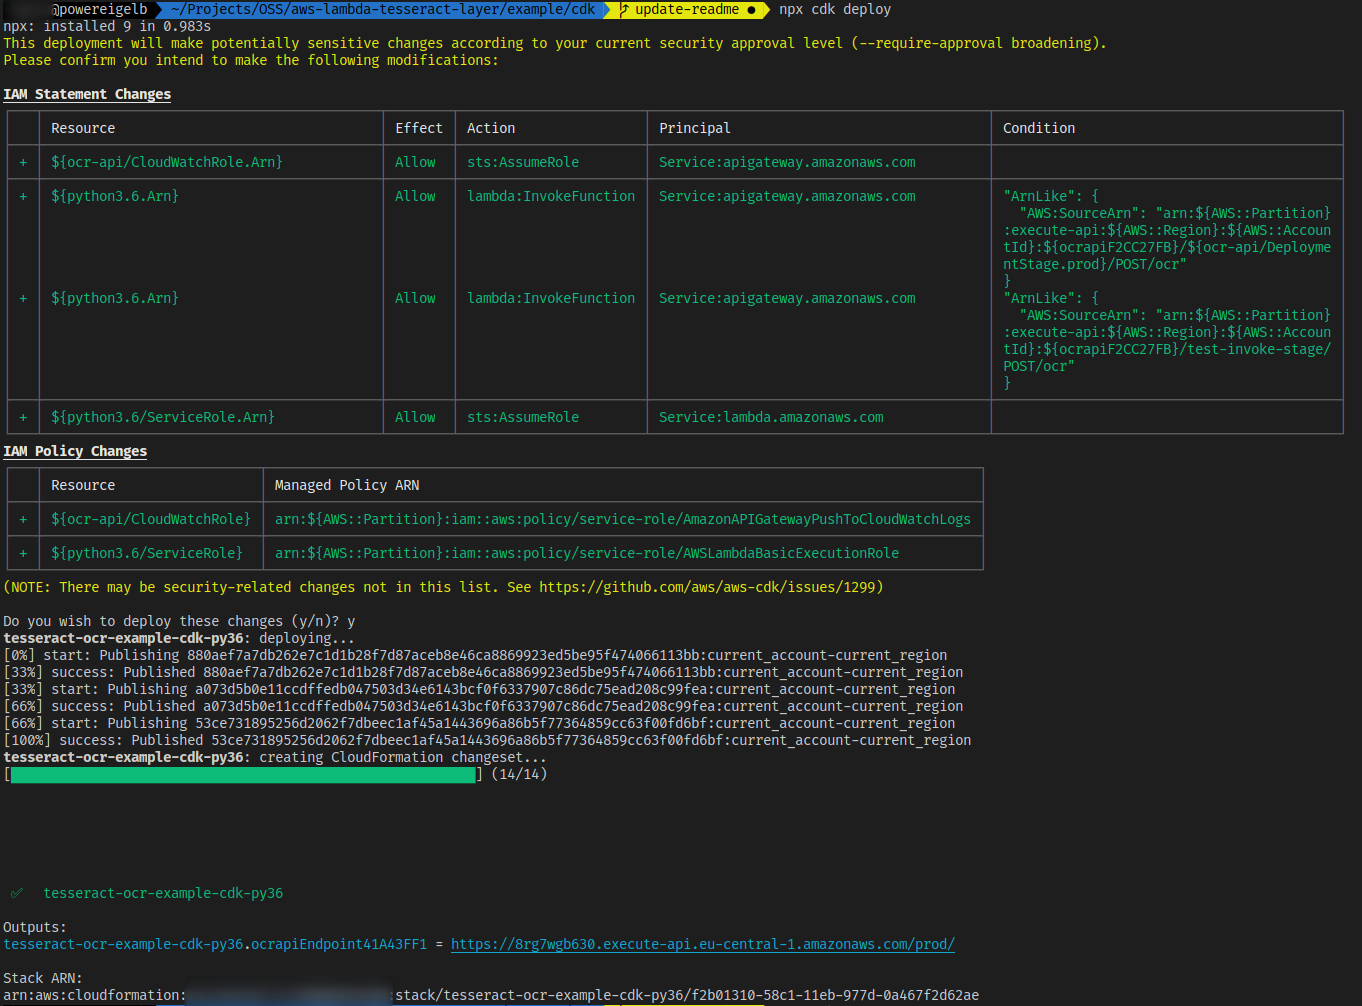
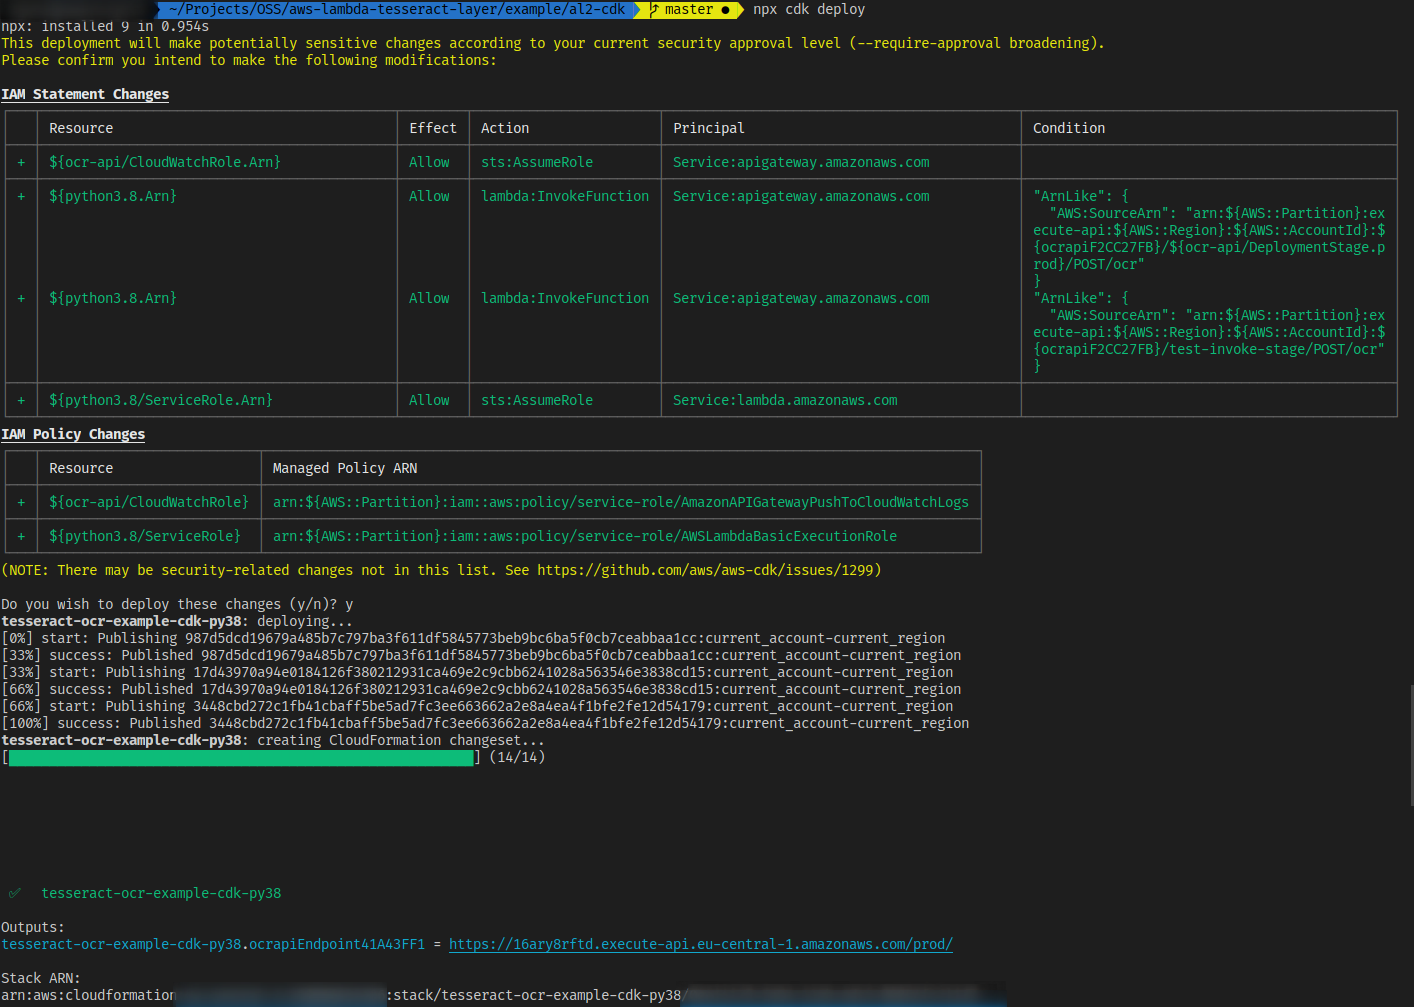
add deprecation warnings for code and examples based on al1

diff --git a/example/al1-deprecated/cdk/index.ts b/example/al1-deprecated/cdk/index.ts
@@ -6,29 +6,29 @@ import { App, BundlingDockerImage, Duration, Stack } from '@aws-cdk/core';
 
 
 const app = new App();
-const stack = new Stack(app, 'tesseract-ocr-example-cdk-py38');
+const stack = new Stack(app, 'tesseract-ocr-example-cdk-py36');
 
 /**
- * Artifacts for AL 2
+ * Artifacts for AL 1
  */
-const al2Layer = new lambda.LayerVersion(stack, 'al2-layer', {
-    code: Code.fromAsset(path.resolve(__dirname, '../../ready-to-use/amazonlinux-2')),
-    description: 'AL2 Tesseract Layer',
+const al1Layer = new lambda.LayerVersion(stack, 'al1-layer', {
+    code: Code.fromAsset(path.resolve(__dirname, '../../ready-to-use/amazonlinux-1')),
+    description: 'AL1 Tesseract Layer',
 });
 
-const ocrFn = new lambda.Function(stack, 'python3.8', {
+const ocrFn = new lambda.Function(stack, 'python3.6', {
     code: lambda.Code.fromAsset(path.resolve(__dirname, 'lambda-handlers'),
     {
         bundling: {
-            image: BundlingDockerImage.fromRegistry('lambci/lambda:build-python3.8'),
+            image: BundlingDockerImage.fromRegistry('lambci/lambda:build-python3.6'),
             command: ['/bin/bash', '-c', [
                 'pip install -r requirements.txt -t /asset-output/',
                 'cp handler.py /asset-output',
             ].join(' && ')],
         }
     }),
-    runtime: Runtime.PYTHON_3_8,
-    layers: [al2Layer],
+    runtime: Runtime.PYTHON_3_6,
+    layers: [al1Layer],
     memorySize: 1024,
     timeout: Duration.seconds(10),
     handler: 'handler.main',

diff --git a/example/cdk/index.ts b/example/cdk/index.ts
@@ -6,29 +6,29 @@ import { App, BundlingDockerImage, Duration, Stack } from '@aws-cdk/core';
 
 
 const app = new App();
-const stack = new Stack(app, 'tesseract-ocr-example-cdk-py36');
+const stack = new Stack(app, 'tesseract-ocr-example-cdk-py38');
 
 /**
- * Artifacts for AL 1
+ * Artifacts for AL 2
  */
-const al1Layer = new lambda.LayerVersion(stack, 'al1-layer', {
-    code: Code.fromAsset(path.resolve(__dirname, '../../ready-to-use/amazonlinux-1')),
-    description: 'AL1 Tesseract Layer',
+const al2Layer = new lambda.LayerVersion(stack, 'al2-layer', {
+    code: Code.fromAsset(path.resolve(__dirname, '../../ready-to-use/amazonlinux-2')),
+    description: 'AL2 Tesseract Layer',
 });
 
-const ocrFn = new lambda.Function(stack, 'python3.6', {
+const ocrFn = new lambda.Function(stack, 'python3.8', {
     code: lambda.Code.fromAsset(path.resolve(__dirname, 'lambda-handlers'),
     {
         bundling: {
-            image: BundlingDockerImage.fromRegistry('lambci/lambda:build-python3.6'),
+            image: BundlingDockerImage.fromRegistry('lambci/lambda:build-python3.8'),
             command: ['/bin/bash', '-c', [
                 'pip install -r requirements.txt -t /asset-output/',
                 'cp handler.py /asset-output',
             ].join(' && ')],
         }
     }),
-    runtime: Runtime.PYTHON_3_6,
-    layers: [al1Layer],
+    runtime: Runtime.PYTHON_3_8,
+    layers: [al2Layer],
     memorySize: 1024,
     timeout: Duration.seconds(10),
     handler: 'handler.main',

diff --git a/README.md b/README.md
@@ -12,6 +12,8 @@ Tesseract OCR Lambda Layer
 
 > AWS Lambda layer containing the [tesseract OCR](https://github.com/tesseract-ocr/tesseract) libraries and command-line binary for Lambda Runtimes running on Amazon Linux 1 and 2.
 
+> :warning: [The Amazon Linux AMI (Version 1) is being deprecated](https://aws.amazon.com/blogs/aws/update-on-amazon-linux-ami-end-of-life/). Users are advised to not use Lambda runtimes (i.e. Python 3.6) based on this version. Refer also to the [AWS Lambda runtime deprecation policy](https://docs.aws.amazon.com/lambda/latest/dg/lambda-runtimes.html#runtime-support-policy).
+
 <!-- TOC -->
 
 - [Tesseract OCR Lambda Layer](#tesseract-ocr-lambda-layer)
@@ -108,7 +110,7 @@ const stack = new Stack(app, 'tesseract-lambda-ci');
 const al2Layer = new lambda.LayerVersion(stack, 'al2-layer', {
     // reference the directory containing the ready-to-use layer
     code: Code.fromAsset(path.resolve(__dirname, './ready-to-use/amazonlinux-2')),
-    description: 'AL1 Tesseract Layer',
+    description: 'AL2 Tesseract Layer',
 });
 new lambda.Function(stack, 'python38', {
     // reference the source code to your function
@@ -142,10 +144,10 @@ unset CONTAINER
 
 ## available `Dockerfile`s
 
-| Dockerfile       | Base-Image     | compatible Runtimes                                                   |
-|:-----------------|:---------------|:----------------------------------------------------------------------|
-| `Dockerfile.al1` | Amazon Linux 1 | Python 2.7/3.6/3.7, Ruby 2.5, Java 8 (OpenJDK), Go 1.x, .NET Core 2.1 |
-| `Dockerfile.al2` | Amazon Linux 2 | Python 3.8, Ruby 2.7, Java 8/11 (Coretto), .NET Core 3.1              |
+| Dockerfile                              | Base-Image     | compatible Runtimes                                                   |
+| :-------------------------------------- | :------------- | :-------------------------------------------------------------------- |
+| `Dockerfile.al1` (:warning: deprecated) | Amazon Linux 1 | Python 2.7/3.6/3.7, Ruby 2.5, Java 8 (OpenJDK), Go 1.x, .NET Core 2.1 |
+| `Dockerfile.al2`                        | Amazon Linux 2 | Python 3.8, Ruby 2.7, Java 8/11 (Coretto), .NET Core 3.1              |
 
 
 ## Building a different tesseract version and/or language
@@ -155,21 +157,21 @@ Per default the build generates the [tesseract 4.1.3](https://github.com/tessera
 The build process can be modified using different build time arguments (defined as `ARG` in `Dockerfile.al[1|2]`), using the `--build-arg` option of `docker build`.
 
 | Build-Argument           | description                                                                                                       | available versions                                                                                                                        |
-|:-------------------------|:------------------------------------------------------------------------------------------------------------------|:------------------------------------------------------------------------------------------------------------------------------------------|
+| :----------------------- | :---------------------------------------------------------------------------------------------------------------- | :---------------------------------------------------------------------------------------------------------------------------------------- |
 | `TESSERACT_VERSION`      | the tesseract OCR engine                                                                                          | https://github.com/tesseract-ocr/tesseract/releases                                                                                       |
 | `LEPTONICA_VERSION`      | fundamental image processing and analysis library                                                                 | https://github.com/danbloomberg/leptonica/releases                                                                                        |
 | `OCR_LANG`               | Language to install (in addition to `eng` and `osd`)                                                              | https://github.com/tesseract-ocr/tessdata (`<lang>.traineddata`)                                                                          |
 | `TESSERACT_DATA_SUFFIX`  | Trained LSTM models for tesseract. Can be empty (default), `_best` (best inference) and `_fast` (fast inference). | https://github.com/tesseract-ocr/tessdata, https://github.com/tesseract-ocr/tessdata_best, https://github.com/tesseract-ocr/tessdata_fast |
-| `TESSERACT_DATA_VERSION` | Version of the trained LSTM models for tesseract. (currently - in July 2022 - only `4.1.0` is available)       | https://github.com/tesseract-ocr/tessdata/releases/tag/4.1.0                                                                              |
+| `TESSERACT_DATA_VERSION` | Version of the trained LSTM models for tesseract. (currently - in July 2022 - only `4.1.0` is available)          | https://github.com/tesseract-ocr/tessdata/releases/tag/4.1.0                                                                              |
 
 
 **Example of custom build**
 
 ```bash
-## Build a Dockerimage based on Amazon Linux 1, with Tesseract 4.0.0
-docker build --build-arg TESSERACT_VERSION=4.0.0 --build-arg OCR_LANG=fra -t tesseract-lambda-layer -f Dockerfile.al1 .
 ## Build a Dockerimage based on Amazon Linux 2, with French language support
 docker build --build-arg OCR_LANG=fra -t tesseract-lambda-layer-french -f Dockerfile.al2 .
+## Build a Dockerimage based on Amazon Linux 2, with Tesseract 4.0.0 and french language support
+docker build --build-arg TESSERACT_VERSION=4.0.0 --build-arg OCR_LANG=fra -t tesseract-lambda-layer -f Dockerfile.al2 .
 ```
 
 ## Deployment size optimization

diff --git a/example/README.md b/example/README.md
@@ -1,9 +1,7 @@
 Examples
 ===
 
-| Lambda Runtime | Amazon Linux | IaC framework        | example           |
-|:---------------|:------------:|:---------------------|:------------------|
-| Python 3.6     |      1       | serverless framework | [`serverless`](./serverless)     |
-| Python 3.6     |      1       | AWS CDK              | [`cdk`](./cdk)            |
-| Python 3.8     |      2       | serverless framework | [`al2-serverless`](./al2-serverless) |
-| Python 3.8     |      2       | AWS CDK              | [`al2-cdk`](./al2-cdk)        |
+| Lambda Runtime       | Amazon Linux | IaC framework        | example                              |
+| :------------------- | :----------: | :------------------- | :----------------------------------- |
+| Python 3.8           |      2       | serverless framework | [`al2-serverless`](./al2-serverless) |
+| Python 3.8           |      2       | AWS CDK              | [`al2-cdk`](./al2-cdk)               |

diff --git a/example/al1-deprecated/serverless/README.md b/example/al1-deprecated/serverless/README.md
@@ -1,4 +1,4 @@
-Example: AWS Lambda with Tesseract layer (Amazon Linux 2 based runtime - Python 3.8)
+Example: AWS Lambda with Tesseract layer (Amazon Linux 1 based runtime - Python 3.6)
 ===
 
 ### Requirements
@@ -11,10 +11,8 @@ Example: AWS Lambda with Tesseract layer (Amazon Linux 2 based runtime - Python 
 ```bash
 ## install dependencies
 npm ci
-## if you haven't already, you need to bootstrap your account to work with cdk
-npx cdk bootstrap
 ## deploy
-npx cdk deploy
+npx sls deploy
 ```
 
 ![Deployment](./deployment.png)
@@ -23,12 +21,12 @@ npx cdk deploy
 
 ```bash
 curl -X POST \
-  https://16ary8rftd.execute-api.eu-central-1.amazonaws.com/prod/ocr \
+  https://i61tt4wbth.execute-api.eu-central-1.amazonaws.com/dev/ocr \
   -d https://upload.wikimedia.org/wikipedia/de/e/eb/Goethe_Faust_Textbeispiel_Grossschreibung.png
 ```
 
 ### Remove Stack
 
 ```
-npx cdk destroy
+npx sls remove
 ```

diff --git a/example/al1-deprecated/cdk/README.md b/example/al1-deprecated/cdk/README.md
@@ -1,4 +1,4 @@
-Example: AWS Lambda with Tesseract layer (Amazon Linux 2 based runtime - Python 3.8)
+Example: AWS Lambda with Tesseract layer (Amazon Linux 1 based runtime - Python 3.6)
 ===
 
 ### Requirements
@@ -11,8 +11,10 @@ Example: AWS Lambda with Tesseract layer (Amazon Linux 2 based runtime - Python 
 ```bash
 ## install dependencies
 npm ci
+## if you haven't already, you need to bootstrap your account to work with cdk
+npx cdk bootstrap
 ## deploy
-npx sls deploy
+npx cdk deploy
 ```
 
 ![Deployment](./deployment.png)
@@ -28,5 +30,5 @@ curl -X POST \
 ### Remove Stack
 
 ```
-npx sls remove
+npx cdk destroy
 ```

diff --git a/ready-to-use/README.md b/ready-to-use/README.md
@@ -2,14 +2,6 @@
 
 ## Supported Runtimes
 
-### [Amazon Linux 1](./amazonlinux-1)
-
-- Python 2.7, 3.6 (:heavy_check_mark:), 3.7
-- Ruby 2.5
-- Java 8 (OpenJDK)
-- Go 1.x
-- .NET Core 2.1
-
 ### [Amazon Linux 2](./amazonlinux-2)
 
 - Python 3.8 (:heavy_check_mark:)
@@ -17,5 +9,14 @@
 - Ruby 2.7
 - Java 8 (Coretto), 11 (Coretto)
 - .NET Core 3.1
+
+### [Amazon Linux 1](./amazonlinux-1) (:warning: most of these runtimes are old/deprecated and will not be supported in the future)
+
+- Python 2.7, 3.6 (:heavy_check_mark:), 3.7
+- Ruby 2.5
+- Java 8 (OpenJDK)
+- Go 1.x
+- .NET Core 2.1
+
 
 :heavy_check_mark: verified working

diff --git a/example/cdk/README.md b/example/cdk/README.md
@@ -1,4 +1,4 @@
-Example: AWS Lambda with Tesseract layer (Amazon Linux 1 based runtime - Python 3.6)
+Example: AWS Lambda with Tesseract layer (Amazon Linux 2 based runtime - Python 3.8)
 ===
 
 ### Requirements
@@ -23,7 +23,7 @@ npx cdk deploy
 
 ```bash
 curl -X POST \
-  https://i61tt4wbth.execute-api.eu-central-1.amazonaws.com/dev/ocr \
+  https://16ary8rftd.execute-api.eu-central-1.amazonaws.com/prod/ocr \
   -d https://upload.wikimedia.org/wikipedia/de/e/eb/Goethe_Faust_Textbeispiel_Grossschreibung.png
 ```
 

diff --git a/example/al1-deprecated/README.md b/example/al1-deprecated/README.md
@@ -1,0 +1,9 @@
+Examples
+===
+
+> :warning: these examples are using old and deprecated versions of runtimes
+
+| Lambda Runtime | Amazon Linux | IaC framework        | example                      |
+| :------------- | :----------: | :------------------- | :--------------------------- |
+| Python 3.6     |      1       | serverless framework | [`serverless`](./serverless) |
+| Python 3.6     |      1       | AWS CDK              | [`cdk`](./cdk)               |

diff --git a/example/serverless/README.md b/example/serverless/README.md
@@ -1,4 +1,4 @@
-Example: AWS Lambda with Tesseract layer (Amazon Linux 1 based runtime - Python 3.6)
+Example: AWS Lambda with Tesseract layer (Amazon Linux 2 based runtime - Python 3.8)
 ===
 
 ### Requirements
